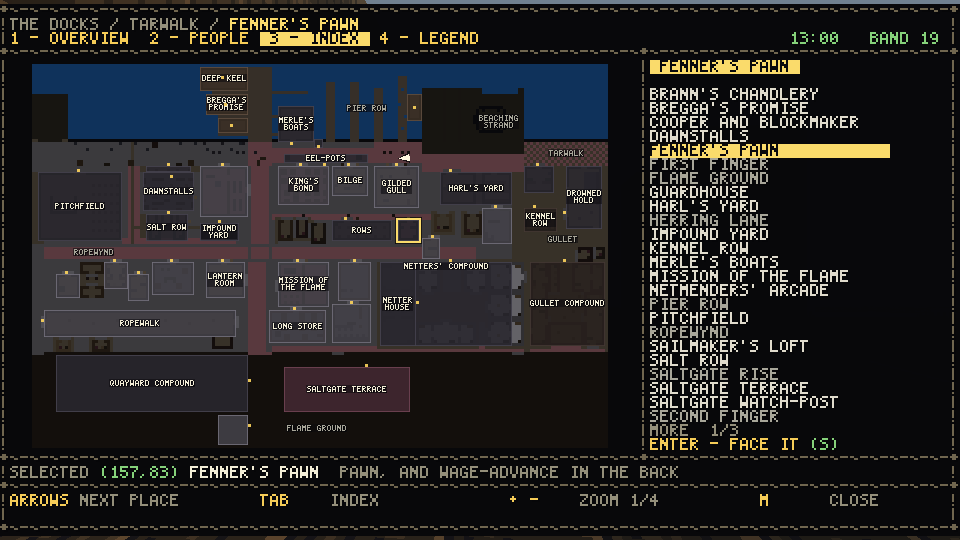
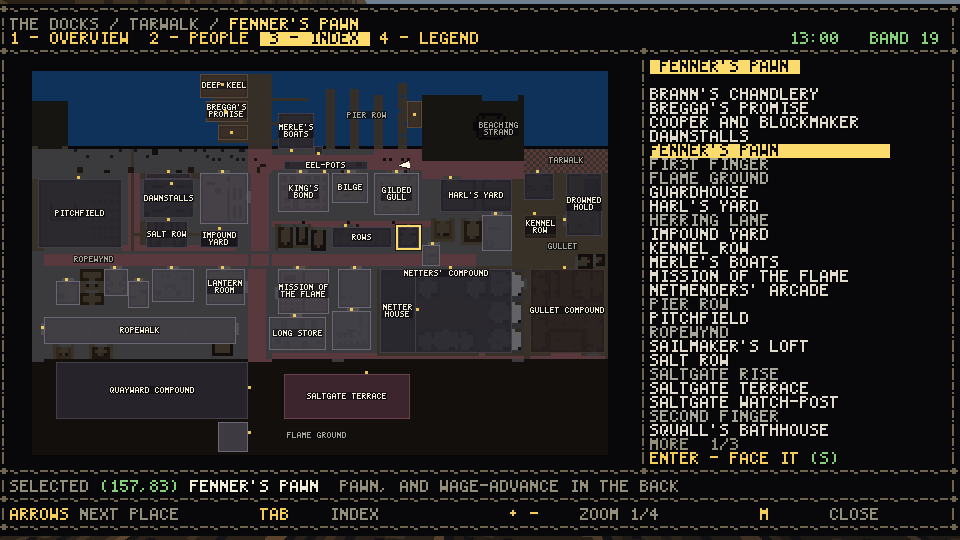
feat: the composition asks how many rows its own footer needs, and buys a pixel per tile with the answer
Two window sizes were paying for a guess.

At 320x180 the four nav verbs cannot make four columns -- the widest is
seventeen cells and four of those want seventy-six of sixty-two -- so the list
falls to three columns, puts the fourth entry on a second row, and a one-row
band clips it. The clipped entry was "M - CLOSE": the key that shuts the page,
missing from the page, at the one size where a player most needs telling.

Fixing that with a fixed two-row band then cost the plan a whole pixel per tile
at 1280x720, where the four verbs DO fit on one row and the twenty-one pixels
the second one took were exactly the twenty-one standing between the district at
three pixels per tile and the district at four. So the band asks the list. At
1280x720 the plan is 768x508 now instead of 576x381, and thirty-five places name
themselves inside their own shapes instead of thirty -- the Weighhouse, the
Kestrel, Cooper and Blockmaker, the Guardhouse and the Long Quay among them.

Also: the streets' own fact said "9 POSTS ALONG IT" and the pane clipped it to
"9 POSTS ALON..". It says "9 POSTS".

diff --git a/native/src/render/map_view.cpp b/native/src/render/map_view.cpp
@@ -589,6 +589,70 @@ constexpr int kMinMapCells = 30;
 /// exactly what twenty-four did.
 constexpr int kMinDetailCells = 22;
 
+[[nodiscard]] std::string_view tabName(MapTab tab) noexcept {
+    switch (tab) {
+        case MapTab::People:
+            return "PEOPLE";
+        case MapTab::Index:
+            return "INDEX";
+        case MapTab::Legend:
+            return "LEGEND";
+        case MapTab::Overview:
+        default:
+            return "OVERVIEW";
+    }
+}
+
+/// The four verbs along the foot of the page. Built in one place because the
+/// COMPOSITION has to know how wide they are before it can decide how many rows
+/// to give them -- see navRowsFor.
+[[nodiscard]] std::vector<PanelOption> navOptions(const DistrictMapState& state) {
+    return {
+        PanelOption{"ARROWS", "NEXT PLACE", "", kCursorTone, InkRole::Dim, false},
+        PanelOption{"TAB", std::string(tabName(state.tab)), "", kCursorTone, InkRole::Dim,
+                    false},
+        PanelOption{"+ -",
+                    "ZOOM " + std::to_string(state.zoom + 1) + "/" +
+                        std::to_string(mapZoomSteps()),
+                    "", kCursorTone, InkRole::Dim, false},
+        PanelOption{"M", "CLOSE", "", kCursorTone, InkRole::Dim, false},
+    };
+}
+
+[[nodiscard]] OptionListStyle navListStyle() {
+    OptionListStyle style;
+    style.showKeys = true;
+    style.maxColumns = 4;
+    style.gutterCells = 2;
+    // NO minRows: the BAND decides the height, and navRowsFor decides the band.
+    style.minRows = 0;
+    return style;
+}
+
+/// HOW MANY ROWS THE NAV BAND TAKES -- ONE IF THE FOUR VERBS FIT ON ONE.
+///
+/// This is a row of the plan's own height and it is worth asking for. A fixed
+/// two-row band is what a one-row band costs you at 320x180, where the four
+/// verbs cannot make four columns (the widest is seventeen cells and four of
+/// those want seventy-six of sixty-two), drawOptionList falls to three columns,
+/// the fourth entry goes to a second row, and a one-row band CLIPS IT. The
+/// clipped entry was "M - CLOSE": the key that shuts the page, missing from the
+/// page, at the one size where a player most needs telling.
+///
+/// But a fixed TWO-row band costs the plan a whole pixel per tile at 1280x720,
+/// where the four verbs do fit on one row and the twenty-one pixels the second
+/// one takes are exactly the twenty-one that stood between the district at
+/// three pixels per tile and the district at four. So the band asks the list.
+/// Still a fixed composition: it responds to the window and to the length of
+/// four words, never to a player.
+[[nodiscard]] int navRowsFor(const DistrictMapState& state, const PanelRect& interior,
+                             const PanelMetric& metric) {
+    const PanelRect oneRow{interior.x, interior.y, interior.w, metric.cellH()};
+    const OptionListPlan plan =
+        planOptionList(navOptions(state), oneRow, metric, navListStyle());
+    return plan.columns * plan.rows >= 4 ? 1 : 2;
+}
+
 }  // namespace
 
 MapPageLayout mapPageLayout(int frameWidth, int frameHeight, const DistrictMapState& state) {
@@ -614,6 +678,7 @@ MapPageLayout mapPageLayout(int frameWidth, int frameHeight, const DistrictMapSt
     // frame has width to spare and height it cannot spare -- every row of
     // chrome is a row the plan does not get, and the plan's fit scale is bound
     // by height at every window size this build runs at.
+    const int navRows = navRowsFor(state, out.interior, out.metric);
     const std::vector<PanelRect> bands = splitRows(out.interior, out.metric,
                                                    {
                                                        spanCells(1),   // the breadcrumb
@@ -623,7 +688,7 @@ MapPageLayout mapPageLayout(int frameWidth, int frameHeight, const DistrictMapSt
                                                        spanCells(1),   // rule
                                                        spanCells(1),   // the selection, named
                                                        spanCells(1),   // rule
-                                                       spanCells(2),   // global nav
+                                                       spanCells(navRows),  // global nav
                                                    });
     const auto rowOf = [&out](const PanelRect& band) {
         return (band.y - out.interior.y) / out.metric.cellH();
@@ -821,20 +886,6 @@ struct PxRect {
         }
     }
     return n;
-}
-
-[[nodiscard]] std::string_view tabName(MapTab tab) noexcept {
-    switch (tab) {
-        case MapTab::People:
-            return "PEOPLE";
-        case MapTab::Index:
-            return "INDEX";
-        case MapTab::Legend:
-            return "LEGEND";
-        case MapTab::Overview:
-        default:
-            return "OVERVIEW";
-    }
 }
 
 }  // namespace
@@ -1245,9 +1296,8 @@ void drawDistrictMap(Framebuffer& target, const DistrictMapState& state) {
                 const PanelFact second =
                     place.way || onSelf
                         ? PanelFact{"SIGNED", std::to_string(signPostsNamed(place.name)) +
-                                                  (signPostsNamed(place.name) == 1
-                                                       ? " POST"
-                                                       : " POSTS ALONG IT"),
+                                                  (signPostsNamed(place.name) == 1 ? " POST"
+                                                                                   : " POSTS"),
                                     InkRole::Number}
                         : PanelFact{"STANDS ON",
                                     onWay >= 0
@@ -1456,31 +1506,8 @@ void drawDistrictMap(Framebuffer& target, const DistrictMapState& state) {
     }
 
     // --- global nav, below its own rule ------------------------------------
-    const std::vector<PanelOption> nav{
-        PanelOption{"ARROWS", "NEXT PLACE", "", kCursorTone, InkRole::Dim, false},
-        PanelOption{"TAB", std::string(tabName(state.tab)), "", kCursorTone, InkRole::Dim,
-                    false},
-        PanelOption{"+ -", "ZOOM " + std::to_string(state.zoom + 1) + "/" +
-                               std::to_string(mapZoomSteps()),
-                    "", kCursorTone, InkRole::Dim, false},
-        PanelOption{"M", "CLOSE", "", kCursorTone, InkRole::Dim, false},
-    };
-    OptionListStyle navStyle;
-    navStyle.showKeys = true;
-    navStyle.maxColumns = 4;
-    navStyle.gutterCells = 2;
-    // NO minRows, AND TWO ROWS OF BAND. The nav band holds two rows at every
-    // window size and spends one of them at most of them, which looks like
-    // waste until you shrink the window: at 320x180 the four verbs cannot make
-    // four columns (the widest is seventeen cells and four of those want
-    // seventy-six of sixty-two), so drawOptionList falls to three columns, puts
-    // the fourth entry on a second row, and a one-row band CLIPS IT. The
-    // clipped entry was "M - CLOSE": the key that shuts the page, missing from
-    // the page, at the one size where a player most needs telling. Two rows
-    // cost the plan nothing -- the fit scale is unchanged at 320x180, 960x540,
-    // 1280x720 and 1920x1080 alike, because a whole pixel per tile is a bigger
-    // step than one text row.
-    navStyle.minRows = 0;
+    const std::vector<PanelOption> nav = navOptions(state);
+    OptionListStyle navStyle = navListStyle();
     drawOptionList(target, layout.navBand, metric, nav, -1, navStyle, alpha);
 }
 

diff --git a/docs/HUD-REAL-ESTATE.md b/docs/HUD-REAL-ESTATE.md
@@ -414,10 +414,22 @@ rather than dropped in silence.
 
 | window | grid | composition |
 |---|---|---|
-| 320x180   | 64x25 cells | master/detail holds; plan at 1 px/tile, pans to the cursor; `LEGEND` drops off the tab row |
-| 960x540   | 96x38 cells | master/detail, plan at 3 px/tile, the whole ward |
-| 1280x720  | 85x34 cells | master/detail, the whole ward |
-| 1920x1080 | 76x30 cells | master/detail, plan at 5 px/tile, the whole ward |
+| 320x180   | 64x25 cells | master/detail holds; plan at 1 px/tile, pans to the cursor; `LEGEND` drops off the tab row; the nav band takes two rows |
+| 960x540   | 96x38 cells | master/detail, plan at 3 px/tile, the whole ward, 30 names on its face |
+| 1280x720  | 85x34 cells | master/detail, plan at **4** px/tile, 35 names on its face |
+| 1920x1080 | 76x30 cells | master/detail, plan at 5 px/tile, 40 names on its face |
+
+Two of those numbers are the composition asking a question rather than assuming
+an answer, and both were worth asking. The MAP PANE`S SHARE of the body is the
+first: the plan only ever grows in whole pixels per tile, so a pane one cell
+short of the next rung is a pane whose extra cells do nothing for the picture
+and are worth more to the facts beside it. The composition tries three shares
+and takes the one that buys a whole pixel, narrowest on a tie. The NAV BAND`S
+HEIGHT is the second: two rows are needed at 320x180, where the four verbs
+cannot make four columns and a one-row band clips `M - CLOSE` off the page --
+and two rows cost the plan a whole pixel per tile at 1280x720, where they fit on
+one and the row is the twenty-one pixels between three px/tile and four. So the
+band asks the list how many rows it needs. Neither responds to a player.
 
 **The HUD is untouched.** Nothing in this pass reaches `hud.cpp`, the world
 render or the street overlay — the ambient street HUD measures ink 17,709
